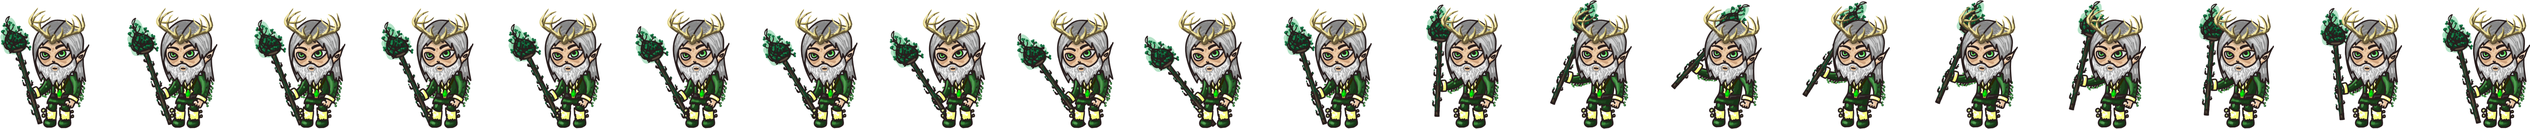
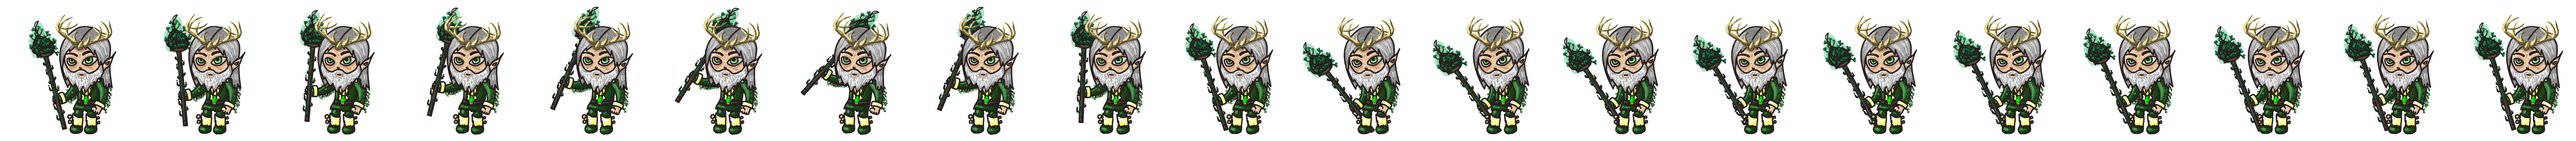
removed absolute position for all elements. added Galadriel to gamestage

diff --git a/src/index.css b/src/index.css
@@ -405,10 +405,7 @@ li {
 }
 
 .purple-wizard {
-  position: absolute;
-  top: 35%;
-  left: 25%;
-  transform: translate(-30%, -20%) scale(0.7); 
+  transform: scale(0.7); 
   width: calc(1795px / 5);
   height: 350px;
   background: url(wizard-die.png);
@@ -424,12 +421,9 @@ li {
 }
 
 .green-mage {
-  position: absolute;
-  top: 30%;
-  left: 70%;
-  transform: translate(-70%,-20%) scaleX(0.7) scaleY(0.7);
-  width: calc(7941px/20);
-  height: 400px;
+  transform: scaleX(0.7) scaleY(0.7);
+  width: calc(7960px/20);
+  height: 438px;
   background: url(greenChar.png);
   animation: castASpell 3s steps(20) infinite;
 }
@@ -439,65 +433,70 @@ li {
     background-position: 0;
   }
   to {
-    background-position: 7941px
+    background-position: 7960px
   }
 }
 
-.green-mage-idle {
-  position: absolute;
-  top: 30%;
-  left: 70%;
-  transform: translate(-70%,-20%) scaleX(0.7) scaleY(0.7);
-  width: calc(7873px/20);
-  height: 378px;
-  background: url(green-mage-idle.png);
-  animation: idle 5s steps(20) infinite;
+.elrond {
+  transform: scaleX(0.7) scaleY(0.7);
+  width: calc(7960px/20);
+  height: 438px;
+  background: url(elrond.png);
+  animation: elrond-idle 1.5s steps(20) infinite;
 }
 
-@keyframes idle { 
+@keyframes elrond-idle { 
   from {
     background-position: 0;
   }
   to {
-    background-position: 7873px;
+    background-position: 7960px;
+  }
+}
+
+.galadriel {
+  transform: scaleX(-0.7) scaleY(0.7);
+  width: calc(6840px/20);
+  height: 410px;
+  background: url(galadriel-idle.png);
+  animation: galadriel-idle 1.5s steps(20) infinite;
+}
+
+@keyframes galadriel-idle { 
+  from {
+    background-position: 0;
+  }
+  to {
+    background-position: 6840px;
   }
 }
 
 .fireball-right {
-  position: absolute;
-  top: 30%;
-  left: 45%;
-  transform: translate(-50%,10%) scaleX(-1);
   width: calc(6217px / 13);
   height: 110px;
-  background: url(firesprite.png);
-  animation: attack 3s steps(20) infinite;
+  background: url(fireball-LtoR.png);
+  animation: attack 0.5s steps(13) infinite;
 }
 @keyframes attack { 
   from {
-    background-position: 0;
+     background-position: 0px;
   }
   to {
-    background-position: 50%
+    background-position: -6217px;
   }
 }
 
 .fireball-left {
-  position: absolute;
-  top: 30%;
-  left: 45%;
-  transform: translate(-50%,10%);
   width: calc(6217px / 13);
   height: 110px;
   background: url(firesprite.png);
-  animation: attack 3s steps(20) infinite;
+  animation: attack 1s steps(13) ;
+  animation-delay: 2s;
+
 }
 
 .ice-left {
-  position: absolute;
-  top: 30%;
-  left: 32%;
-  transform: translate(10%,10%) scale(1.5);
+  transform: scale(1.5);
   width: calc(3814px / 13);
   height: 175px;
   background: url(iceball.png);
@@ -520,7 +519,6 @@ li {
 
 .gamestage {
   display: flex;
-  align-items: center;
   height: 65%;
   background-image: url(greenforest.png)
 }

diff --git a/src/components/gamestage/attacking.js b/src/components/gamestage/attacking.js
@@ -6,7 +6,7 @@ class Attacking extends Component {
   }
 
   render() {
-    return <div className="fireball-left"></div>
+    return <div className="fireball-right"></div>
   }
 }
 export default Attacking

diff --git a/src/components/gamestage/player2.js b/src/components/gamestage/player2.js
@@ -6,7 +6,7 @@ class Player2 extends Component {
   }
 
   render() {
-    return <div className="green-mage-idle"></div>
+    return <div className="elrond"></div>
   }
 }
 export default Player2

diff --git a/src/components/gamestage/player1.js b/src/components/gamestage/player1.js
@@ -7,7 +7,7 @@ class Player1 extends Component {
 
   render() {
     return (
-      <div className="purple-wizard" ></div>
+      <div className="galadriel" ></div>
     );
   }
 }
